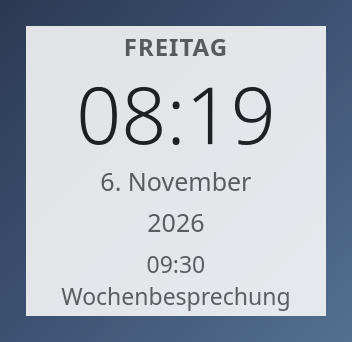
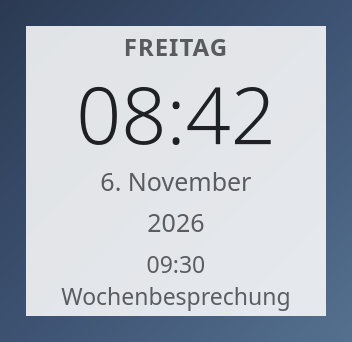
Klammern an den Uhr-Schaltern, und drei veraltete Beschreibungen
Stephans Wunsch: Hinter „Jahreszahl anzeigen" und „Nächsten Termin
anzeigen" soll stehen, dass sie nur in der Ansicht „Uhr + Datum"
wirken. Wer sie in einer Terminansicht anhakt, sah vorher nichts
geschehen - der Hinweis stand nur am Mauszeiger, und dort sucht ihn
niemand, der gerade einen Haken setzt.

Der Zusatz zieht den Namen aus derselben Tabelle wie das Auswahlfeld
darüber (`_ANSICHT_NAMEN`). Stünde er als Text da, zeigte er
irgendwann auf eine Ansicht, die anders heißt.

Beim Stundenformat bewusst **ohne** Klammer, obwohl es dieselbe
Einschränkung hat: Als Beschriftung einer Formularzeile verbreitert
sie die ganze linke Spalte und schiebt jedes Auswahlfeld nach rechts.
Erst gebaut, am gerenderten Bild gesehen, wieder zurückgenommen.

Dabei beim Nachsehen im fertigen 1.8.5-Paket gefunden: Die
Beschreibung des Debian-Pakets sagte noch „Thunderbirds Kalender" -
genau das, was ein Nutzer in der Software-Verwaltung liest, bevor er
sich fürs Installieren entscheidet. Wer Evolution oder GNOME Kalender
einsetzt, hätte das Programm für nichts für sich gehalten.

Dieselbe Stelle war in 1.8.2 schon einmal behoben worden, damals für
die .desktop-Datei und das Arch-Paket. Drei weitere blieben stehen:
das Debian-Paket, `pip show` und `kalenderblick --help`. Alle vier
sagen jetzt wortgleich dasselbe wie die AppStream-Datei.

Und `.gitignore` kennt jetzt die Reste eines Paketbaus. Nach Stephans
makepkg-Lauf lagen ein fertiges Paket, ein Quellarchiv und ein
[…]

Changed region(s): [[0.6562, 0.2632, 0.7812, 0.4386], [0.5312, 0.2339, 0.6562, 0.4386]]

diff --git a/src/kalenderblick/gui/fenster.py b/src/kalenderblick/gui/fenster.py
@@ -52,6 +52,12 @@ _ANSICHT_NAMEN = {
     "woche":     "Nächste 7 Tage",
     "14tage":    "Nächste 14 Tage",
 }
+# Hinter jeder Einstellung, die nur in der Uhr-Ansicht wirkt. Der Name
+# kommt aus derselben Tabelle wie der Eintrag im Auswahlfeld - sonst
+# stünde hier irgendwann ein anderer Wortlaut als dort, und der Hinweis
+# zeigte auf eine Ansicht, die es so nicht gibt.
+_NUR_UHR = f"nur bei {_ANSICHT_NAMEN['uhr']}"
+
 _GROESSE_NAMEN = {
     "sehr_klein": "Sehr klein",
     "klein":      "Klein",
@@ -509,21 +515,26 @@ class _EinstellungenReiter(QWidget):
         self._stunden_format.setToolTip(
             "Nur für die Uhr-Ansicht: Uhrzeit mit 24 Stunden oder mit\n"
             "12 Stunden samt AM/PM.")
+        # Hier bewusst ohne den Klammerzusatz: Als Beschriftung einer
+        # Formularzeile verbreitert er die ganze linke Spalte und
+        # schiebt jedes Auswahlfeld nach rechts. Bei den Haken darunter
+        # steht er hinter dem Text und kostet nichts. Dass auch das
+        # Stundenformat nur für die Uhr gilt, sagt sein Hinweis am
+        # Mauszeiger - und die drei stehen ohnehin beieinander.
         wl.addRow("Stundenformat:", self._stunden_format)
 
-        self._jahr_zeigen = QCheckBox("Jahreszahl anzeigen")
+        self._jahr_zeigen = QCheckBox(f"Jahreszahl anzeigen ({_NUR_UHR})")
         self._jahr_zeigen.setChecked(e.desktop.jahr_zeigen)
         self._jahr_zeigen.setToolTip(
-            "Nur für die Uhr-Ansicht: zeigt die Jahreszahl als eigene\n"
-            "Zeile unter dem Datum.")
+            "Zeigt die Jahreszahl als eigene Zeile unter dem Datum.")
         wl.addRow(self._jahr_zeigen)
 
-        self._termin_zeigen = QCheckBox("Nächsten Termin anzeigen")
+        self._termin_zeigen = QCheckBox(f"Nächsten Termin anzeigen ({_NUR_UHR})")
         self._termin_zeigen.setChecked(e.desktop.termin_zeigen)
         self._termin_zeigen.setToolTip(
-            "Nur für die Uhr-Ansicht: zeigt unter dem Datum, was als\n"
-            "nächstes ansteht - mit Uhrzeit, und bei ferneren Terminen\n"
-            "auch mit Tag. Lässt sich mit der Jahreszahl verbinden.")
+            "Zeigt unter dem Datum, was als nächstes ansteht - mit\n"
+            "Uhrzeit, und bei ferneren Terminen auch mit Tag. Lässt\n"
+            "sich mit der Jahreszahl verbinden.")
         wl.addRow(self._termin_zeigen)
 
         self._klick_oeffnet = QCheckBox("Klick öffnet die Termine")

diff --git a/src/kalenderblick/cli.py b/src/kalenderblick/cli.py
@@ -242,7 +242,8 @@ def befehl_start(args=None) -> int:
 def baue_parser() -> argparse.ArgumentParser:
     p = argparse.ArgumentParser(
         prog=AUFRUF,
-        description=f"{NAME} - zeigt Thunderbirds Kalender auf dem Schreibtisch "
+        description=f"{NAME} - zeigt Termine aus Thunderbird, Betterbird, "
+                    "Evolution und GNOME Kalender auf dem Schreibtisch "
                     "und in der Kontrollleiste.",
         formatter_class=argparse.RawDescriptionHelpFormatter,
         epilog=f"""Zuerst ausprobieren:

diff --git a/src/kalenderblick/__init__.py b/src/kalenderblick/__init__.py
@@ -1,4 +1,7 @@
-"""KALENDERBlick - Thunderbirds Kalender auf dem Schreibtisch und in der Leiste."""
+"""KALENDERBlick - Termine auf dem Schreibtisch und in der Leiste.
+
+Liest Thunderbird, Betterbird, Evolution und GNOME Kalender.
+"""
 
 NAME = "KALENDERBlick"
 

diff --git a/src/kalenderblick/hilfe/anleitung.md b/src/kalenderblick/hilfe/anleitung.md
@@ -252,8 +252,8 @@ Zweiter Reiter im Hauptfenster:
 | Transparenz | Wie durchsichtig der Hintergrund ist - 0 % nur Schrift, 100 % voll deckend. |
 | Erscheinungsbild | Dark-Mode (weiße Schrift) oder Light-Mode (schwarze Schrift) - wirkt nur auf das Widget, nicht auf dieses Fenster. |
 | Stundenformat | 24 Stunden oder 12 Stunden mit AM/PM - nur für die Uhr-Ansicht. |
-| Jahreszahl anzeigen | Nur für die Uhr-Ansicht: stellt die Jahreszahl als eigene Zeile unter das Datum. |
-| Nächsten Termin anzeigen | Nur für die Uhr-Ansicht: stellt unter das Datum, was als nächstes ansteht - mit Uhrzeit, bei ferneren Terminen auch mit Tag und Datum. Läuft gerade einer, steht „Jetzt:" davor. Lange Titel werden gekürzt, damit die Uhrzeit in der Mitte bleibt. Die beiden Schalter sind voneinander unabhängig: Es geht also nichts, nur das Jahr, nur der Termin oder beides. |
+| Jahreszahl anzeigen (nur bei Uhr + Datum) | Stellt die Jahreszahl als eigene Zeile unter das Datum. |
+| Nächsten Termin anzeigen (nur bei Uhr + Datum) | Stellt unter das Datum, was als nächstes ansteht - mit Uhrzeit, bei ferneren Terminen auch mit Tag und Datum. Läuft gerade einer, steht „Jetzt:" davor. Lange Titel werden gekürzt, damit die Uhrzeit in der Mitte bleibt. Die beiden Schalter sind voneinander unabhängig: Es geht also nichts, nur das Jahr, nur der Termin oder beides. |
 | Klick öffnet die Termine | Ein Klick auf das Widget öffnet das Hauptfenster. Ausgeschaltet lässt sich das Widget nur noch ziehen oder über das Leistensymbol öffnen. |
 | Position sperren | Einmal an die richtige Stelle gezogen, lässt sich das Fenster nicht mehr versehentlich verschieben - und bleibt auch über einen Neustart von KALENDERBlick an dieser Stelle (nur KDE/KWin, über eine automatisch angelegte Fensterregel). |
 | Auf allen Arbeitsflächen zeigen | Das Widget bleibt sichtbar, egal auf welche Arbeitsfläche gewechselt wird - nur unter KDE/KWin wirksam. |

diff --git a/CHANGELOG.md b/CHANGELOG.md
@@ -1,5 +1,34 @@
 # Änderungsprotokoll
 
+## Unveröffentlicht
+
+**Geändert**
+
+- Hinter „Jahreszahl anzeigen" und „Nächsten Termin anzeigen" steht
+  jetzt in Klammern, dass beide nur in der Ansicht „Uhr + Datum"
+  wirken. Wer sie in einer Terminansicht anhakt, sah vorher nichts
+  geschehen - der Hinweis stand nur am Mauszeiger, und dort sucht ihn
+  niemand, der gerade einen Haken setzt.
+
+**Behoben**
+
+- Die Beschreibung des Debian-Pakets sagte noch „Thunderbirds
+  Kalender". Genau das liest ein Nutzer in der Software-Verwaltung,
+  bevor er sich fürs Installieren entscheidet - wer Evolution oder
+  GNOME Kalender einsetzt, hätte das Programm für nichts für sich
+  gehalten. Dieselbe veraltete Stelle war in 1.8.2 schon einmal
+  behoben worden, damals für die `.desktop`-Datei und das Arch-Paket;
+  drei weitere blieben stehen: das Debian-Paket, `pip show` und die
+  Hilfe auf der Kommandozeile (`kalenderblick --help`). Alle vier
+  sagen jetzt wortgleich dasselbe wie die AppStream-Datei.
+
+**Pflege**
+
+- `.gitignore` kennt jetzt die Reste eines Paketbaus
+  (`packaging/pkg/`, `packaging/src/`, das fertige Paket und das
+  Quellarchiv). Sie lagen nach jedem `makepkg` unverfolgt herum und
+  wären beim ersten unachtsamen `git add` im Repo gelandet.
+
 ## 1.8.5 – 2026-11-06
 
 **Neu**
